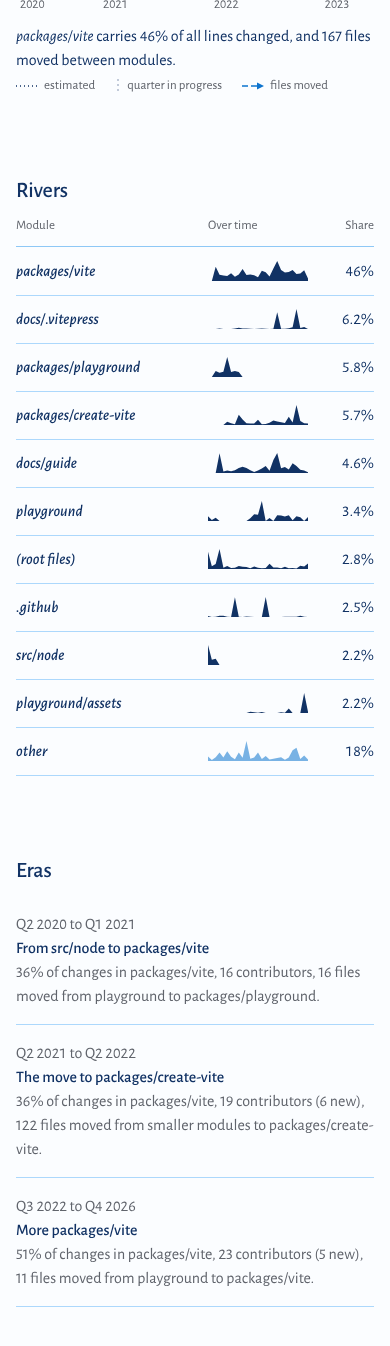
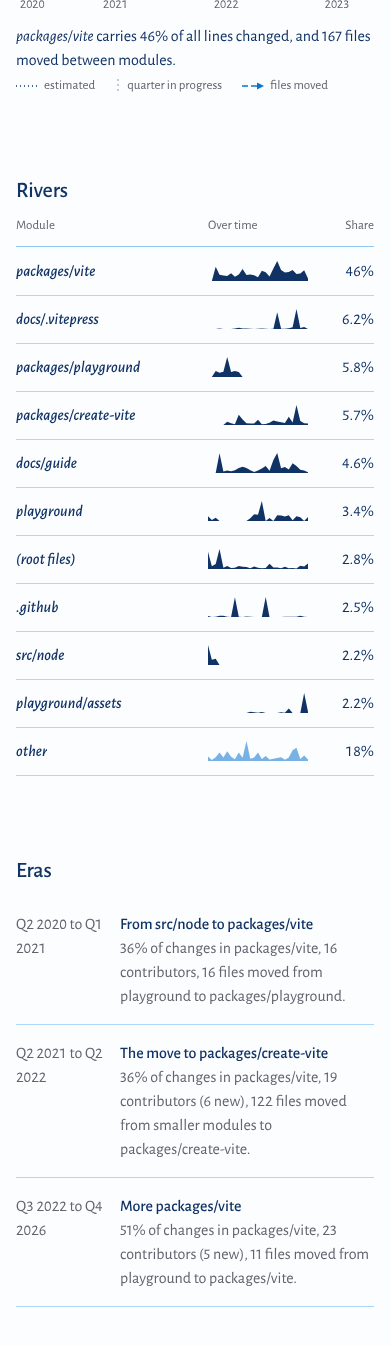
R5 review 1: fixed number columns, unclipped row ring, phone era column
The totals, Share and Active columns keep 120/80/100 px without
wrapping at every width, the name and sparkline give way; the row focus
ring sits 2 px outside the row instead of over the text; phone eras keep
the board's 104 px range column.

Claude-Session: https://claude.ai/code/session_01JkYyYNqjFtcB2YRJcD65To

Changed region(s): [[0.0308, 0.7801, 0.9538, 0.9673], [0.0308, 0.6865, 0.9231, 0.7489]]

diff --git a/src/index.css b/src/index.css
@@ -139,25 +139,25 @@ a { color: inherit; text-underline-offset: 3px; }
 .rr-sec h2.rr-at-head { margin-top: -6px; }
 .rr-sec h2.rr-at-row { margin-top: 13px; }
 .rr-index { width: 100%; border-collapse: collapse; table-layout: fixed; font-variant-numeric: lining-nums tabular-nums; }
-.rr-index th, .rr-index td { padding: 0; font-weight: 400; text-align: right; }
+.rr-index th, .rr-index td { padding: 0; font-weight: 400; text-align: right; white-space: nowrap; }
 .rr-index thead th { padding-bottom: 10px; border-bottom: 0.5px solid var(--line); font-size: 13px; line-height: 20px; color: var(--muted); }
 .rr-index tbody th, .rr-index tbody td { box-sizing: border-box; height: 48px; border-bottom: 0.5px solid var(--hair); }
 .rr-index .rr-c-name, .rr-index .rr-c-spark, .rr-index tbody th { text-align: left; }
-/* Columns 240 / 380 / 120 / 80 / 100 of 920. */
+/* Columns 240 / 380 / 120 / 80 / 100 at 920; narrower, the numbers keep their widths and the name (240/920 of the
+   table, as the era ranges) and the sparkline (the rest) give way. */
 .rr-index thead .rr-c-name { width: 26.087%; }
-.rr-index thead .rr-c-spark { width: 41.304%; }
-.rr-index thead .rr-c-amount { width: 13.043%; }
-.rr-index thead .rr-c-share { width: 8.696%; }
-.rr-index thead .rr-c-span { width: 10.87%; }
+.rr-index thead .rr-c-amount { width: 120px; }
+.rr-index thead .rr-c-share { width: 80px; }
+.rr-index thead .rr-c-span { width: 100px; }
 .rr-index td.rr-c-span { color: var(--muted); }
 .rr-index tr.rr-on > * { background: var(--band); }
 .rr-narrow { display: none; }
 /* The name's button covers its row, so a click anywhere on the row picks the river; its ring rings the row. */
 .rr-index tbody tr { position: relative; }
-.rr-pick { position: static; padding: 0; overflow-wrap: anywhere; border: 0; background: none; color: var(--ink); font: inherit; text-align: left; cursor: pointer; }
+.rr-pick { position: static; display: block; max-width: 100%; overflow: hidden; text-overflow: ellipsis; padding: 0; border: 0; background: none; color: var(--ink); font: inherit; text-align: left; cursor: pointer; }
 .rr-pick::after { content: ''; position: absolute; inset: 0; }
 .rr-pick:focus-visible { outline: none; }
-.rr-pick:focus-visible::after { outline: 2px solid var(--focus); outline-offset: -2px; }
+.rr-pick:focus-visible::after { outline: 2px solid var(--focus); outline-offset: 2px; }
 .rr-rname { font-style: italic; font-weight: 500; }
 .rr-index svg { display: block; width: calc(100% - 20px); height: 24px; }
 .rr-spark { fill: var(--water-a); }
@@ -172,6 +172,11 @@ a { color: inherit; text-underline-offset: 3px; }
 @media (max-width: 1024px) {
   .rr-sec { display: block; }
   .rr-sec h2.rr-at-head, .rr-sec h2.rr-at-row { margin: 0 0 12px; }
+}
+/* Where the sparkline column is too narrow for its long head. */
+@media (max-width: 800px) {
+  .rr-wide { display: none; }
+  .rr-narrow { display: inline; }
 }
 /* Loading and error panels, source popover, notices (DESIGN §7): 0.5-bordered, radius 6, no shadow. */
 .rr-state { box-sizing: border-box; max-width: 580px; padding: 24px; border: 0.5px solid var(--line); border-radius: 6px; }
@@ -230,13 +235,13 @@ a { color: inherit; text-underline-offset: 3px; }
   .rr-controls { justify-content: space-between; margin-top: 16px; }
   /* Rivers keeps name | sparkline 100×20 | share; eras put the range above the title. */
   .rr-sec { margin-top: 80px; }
-  .rr-index .rr-c-amount, .rr-index .rr-c-span, .rr-wide { display: none; }
-  .rr-narrow { display: inline; }
+  .rr-index .rr-c-amount, .rr-index .rr-c-span { display: none; }
   .rr-index thead .rr-c-name { width: auto; }
   .rr-index thead .rr-c-spark { width: 110px; }
   .rr-index thead .rr-c-share { width: 56px; }
   .rr-index svg { width: 100px; height: 20px; }
-  .rr-era-list li { display: block; }
+  .rr-era-list li { grid-template-columns: 104px 1fr; }
+  .rr-era-when { padding-right: 12px; }
 }
 /* ?embed=social (phase 11): a fixed 1280×640 card for the social preview and gallery. */
 .rr-social { box-sizing: border-box; width: 1280px; height: 640px; padding: 28px 48px 0; overflow: hidden; }

diff --git a/docs/DECISIONS.md b/docs/DECISIONS.md
@@ -124,4 +124,4 @@ Record every non-trivial decision here: date, decision, alternatives considered,
 | 2026-10-25 | Redesign R5: a row's name is a `<button>` (in a `th scope="row"`) whose `::after` covers the row, so a click anywhere on the row, Enter or Space picks the river: it pins at the current bucket (the river's peak when nothing is focused), picking the pinned row again clears, and Escape on a row clears at once (`pickRiver`, `useRiverFocus().table`); the button is `aria-pressed` while its river is pinned and the row is banded whenever the chart focuses that river (hover, keyboard or pin) | `tabindex` and key handlers on the `<tr>`; Escape unpins first as in the chart | A real button keeps table semantics and native keys; a row pick is a pin, so one Escape undoes it. |
 | 2026-10-25 | Redesign R5: the sparkline is `aria-hidden`, and its cell carries visually hidden text ("peak 7,732 in Q2 2023"); AI-named eras in the Eras list end with a visually hidden ", named by AI"; share is one decimal below 10% and "<0.1%" below 0.05% | Leave the sparkline column empty for screen readers; no AI note in the list | No column reads as blank; who wrote a name is not redundant (the legend says it on screen). |
 | 2026-10-25 | Redesign R5: no Testing Library or DOM environment (no new dependencies): the table and era list are tested as static markup, row picking as the pure `pickRiver`, and the click, Enter, Space, Escape and chart-to-row highlight in the phase 6 browser check; that check now takes the readout's expected numbers from the view model (`selectView` imported from `src/core` through Node's type stripping) since the per-bucket table is gone | Add @testing-library/react and jsdom | CLAUDE.md asks for a small dependency footprint; the browser check exercises the real events. |
-| 2026-10-25 | Redesign R5: from 641 to 1024 px the Rivers and Eras sections stack (h2 above), and the table's columns keep the 240/380/120/80/100 proportions with the sparkline stretched to its cell; on the phone the sparkline head reads "Over time" (V2Phone), the totals and Active columns are hidden, and an era's range sits above its title (the brief; V2Phone keeps a 104 px column) | Keep the 280/920 grid with horizontal scroll | 280 + 920 does not fit below 1232 px and no view may scroll sideways. |
+| 2026-10-25 | Redesign R5: below 1232 px the table is narrower than 920: the totals, Share and Active columns keep 120/80/100 px and never wrap, the name column keeps 240/920 of the table (the era ranges too, so era titles stay on the sparklines' x) and the sparkline takes the rest, its path scaled to the cell; a name too long for its column ends in an ellipsis (the button keeps the full name). From 1025 to 1231 px the sections keep the 280 px label column; from 641 to 1024 px they stack (h2 above); at 800 px and below the sparkline head reads "Over time" (V2Phone's head), as it does on the phone, where the totals and Active columns are hidden and eras keep V2Phone's 104 px range column | Keep the 280/920 grid with horizontal scroll; percentage widths for every column | 280 + 920 does not fit below 1232 px and no view may scroll sideways; percentage widths made the numbers wrap or touch (review 1). |
